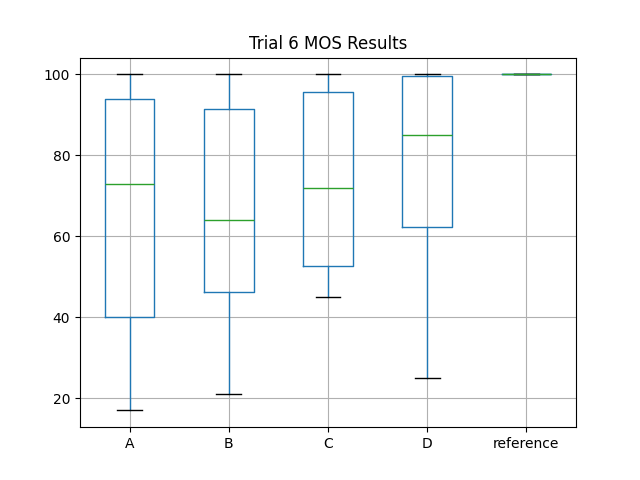
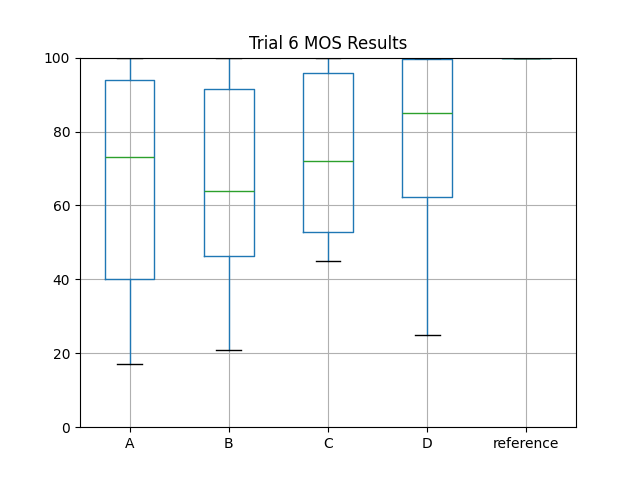
fixed the script slightly, bounding from [0, 100]

diff --git a/scripts/make_graphs.py b/scripts/make_graphs.py
@@ -4,7 +4,7 @@ import numpy as np
 import pandas as pd
 
 df = pd.read_csv('./results.csv')
-examinee_list = df['session_uuid'].unique()
+examinee_num = len(df['session_uuid'].unique())
 df = df[['trial_id', 'rating_stimulus', 'rating_score']]
 
 # aggregate data
@@ -20,5 +20,8 @@ for t in range(1,10):   # 9 trials
     trial_results.append(newdf)
     plt.figure()
     boxplot = trial_results[t-1].boxplot(column=audiorefs)
+    plt.ylim([0, 100])
     plt.title(f'Trial {t} MOS Results')
     plt.savefig(f'./trial{t}_results.png')
+
+print(f'Number of responses: {examinee_num}')
